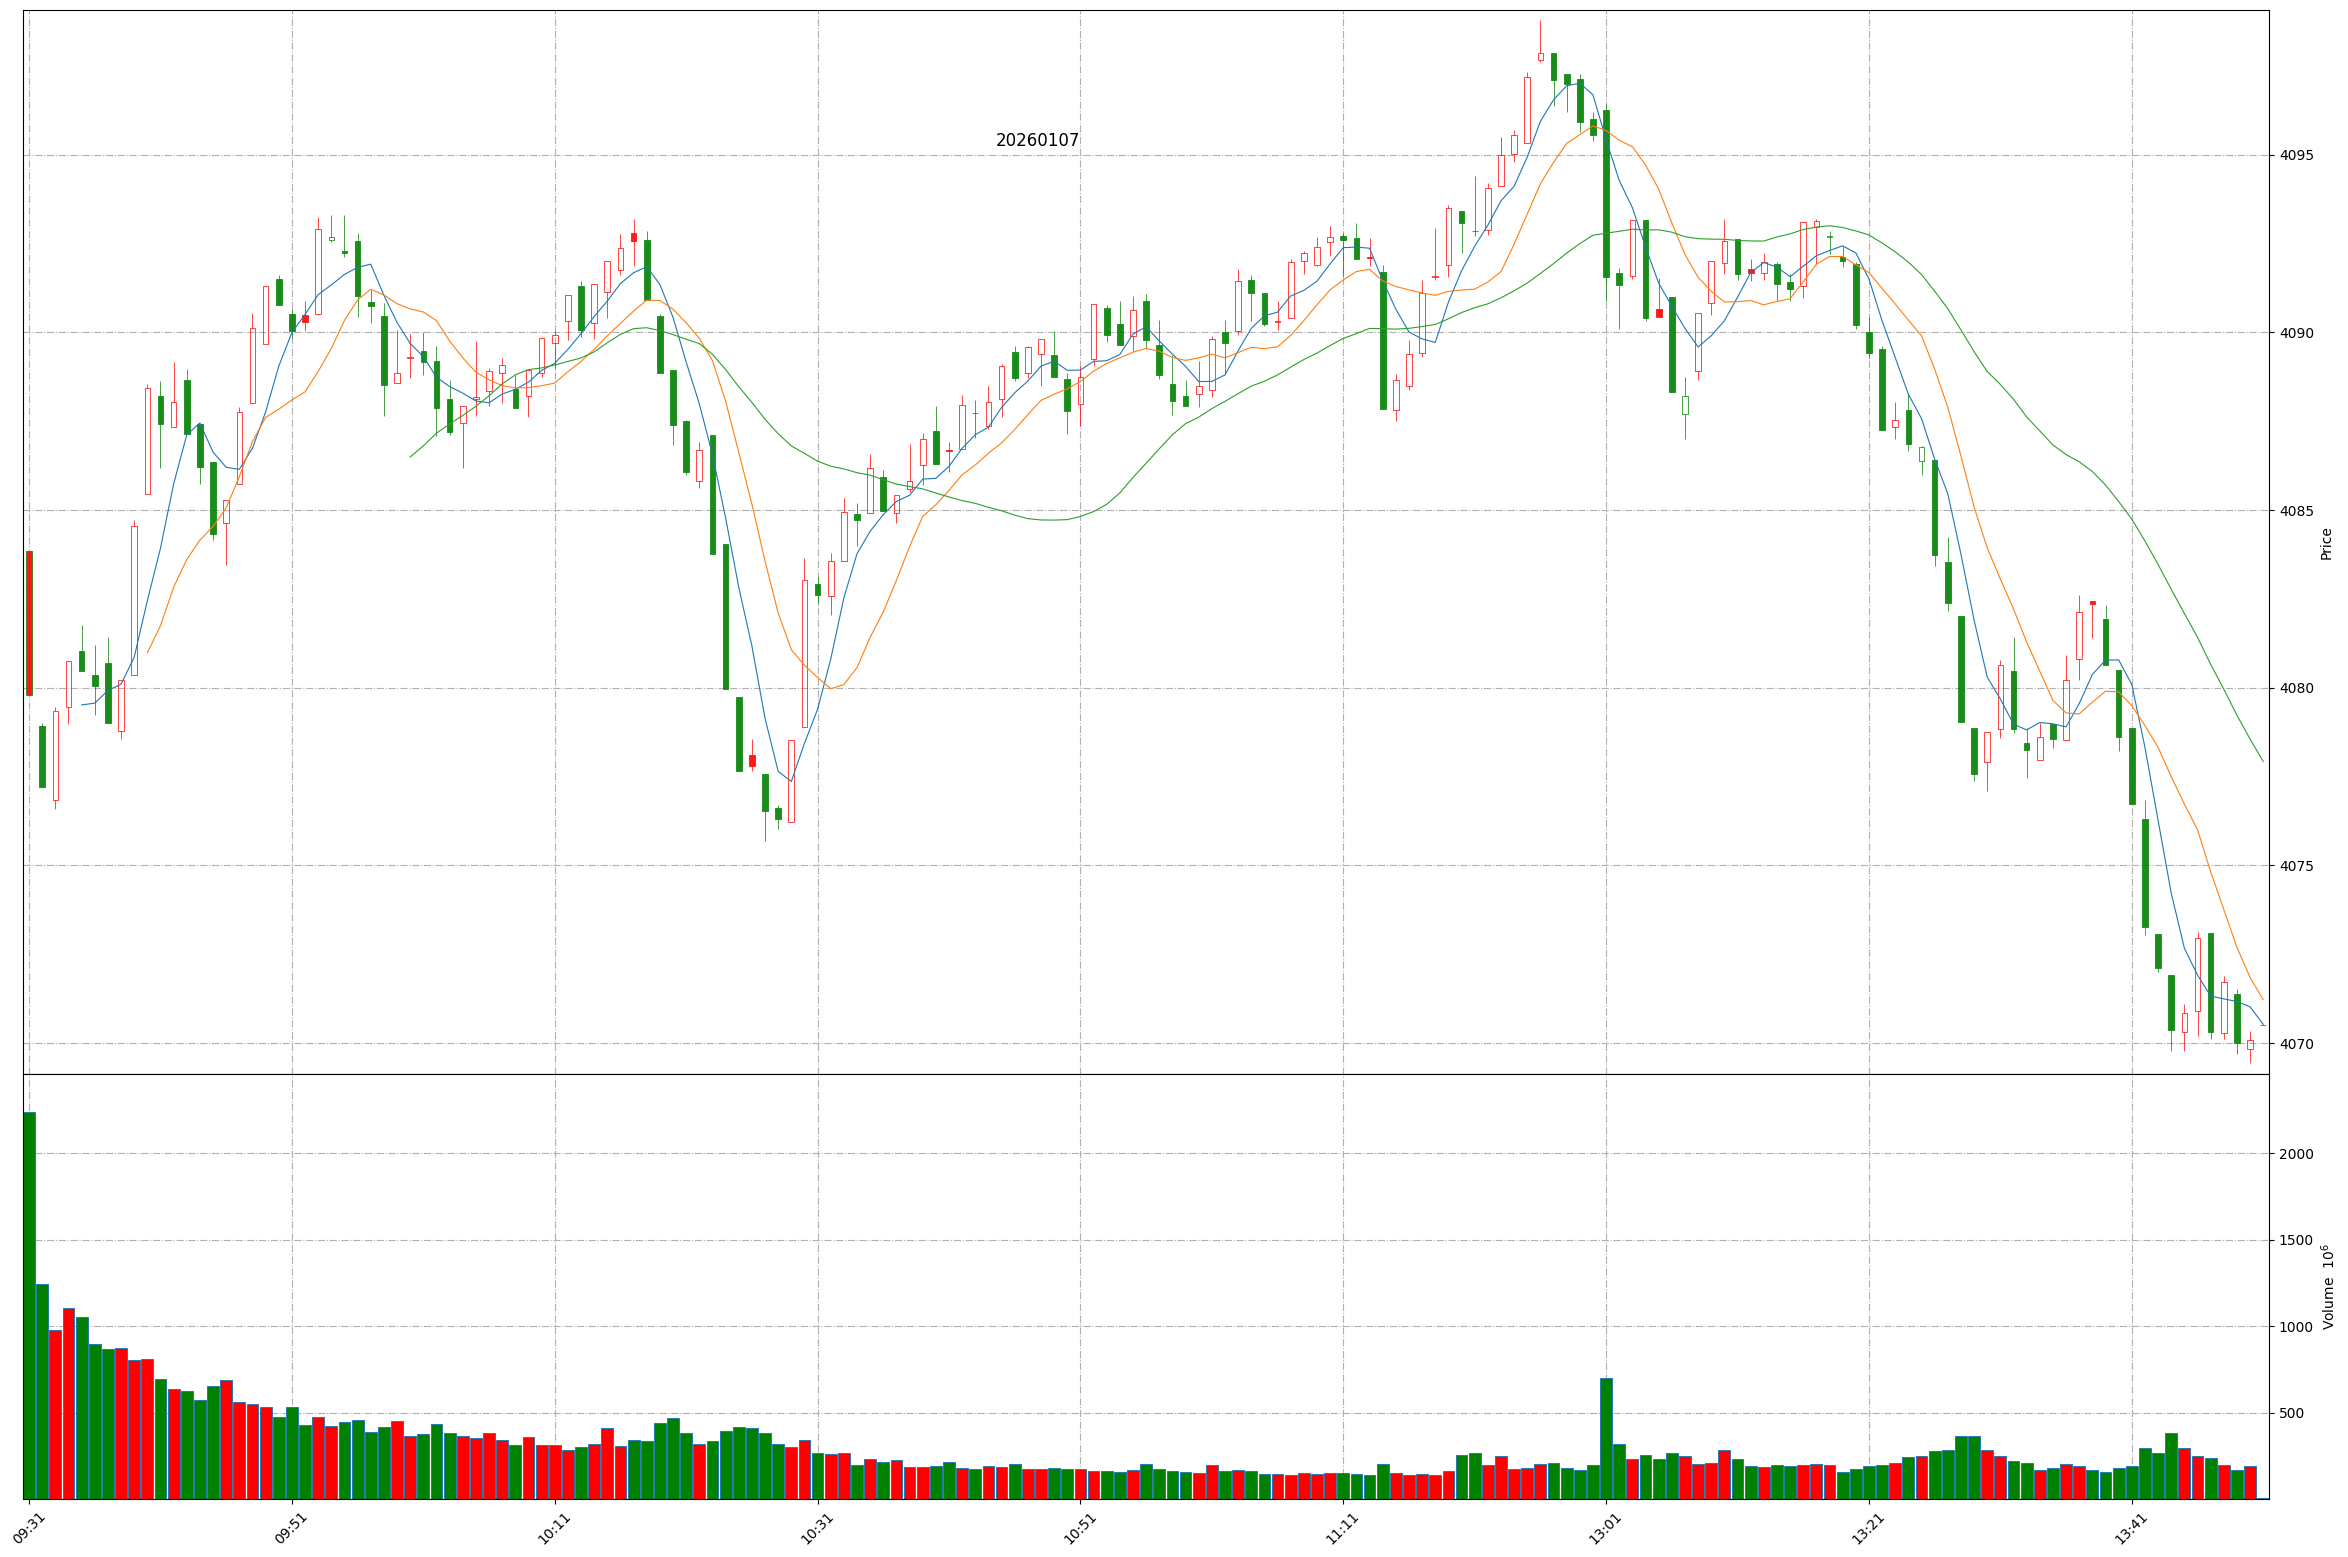
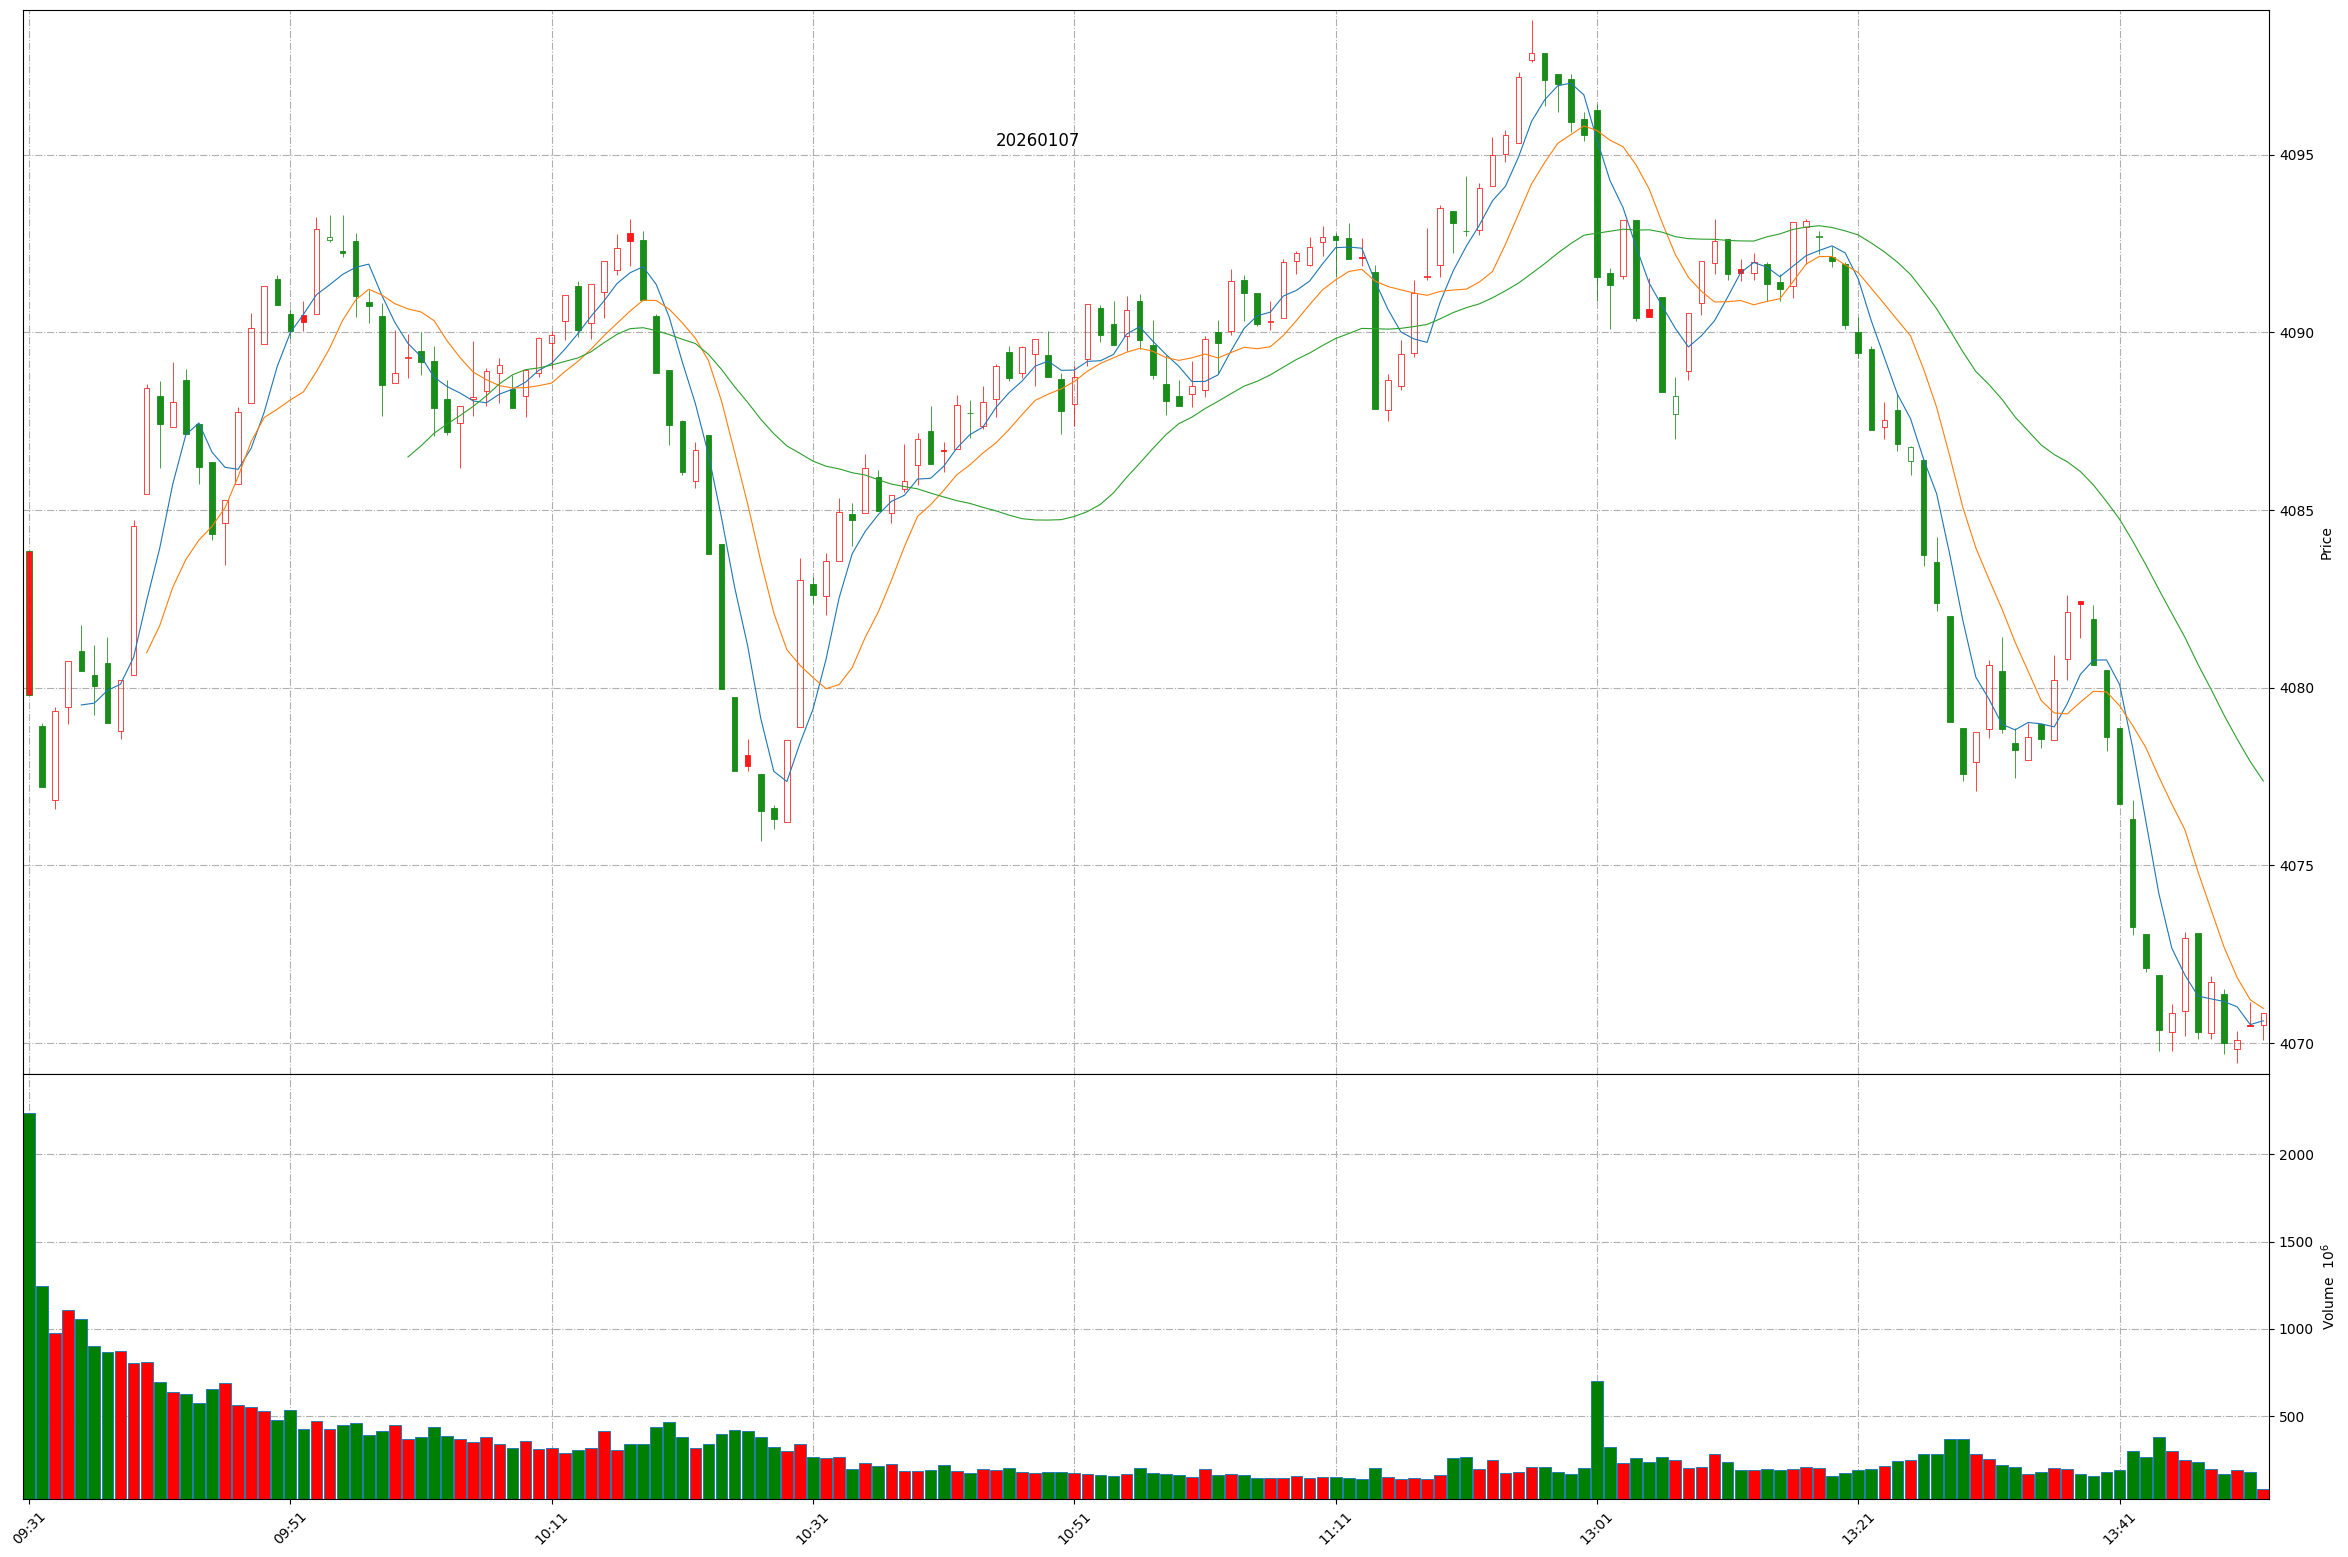
Github action update at 2026-01-07 13:51:46.

Changed region(s): [[0.0622, 0.0308, 0.9638, 0.6782], [0.0311, 0.8632, 0.9638, 0.9865], [0.0311, 0.4008, 0.0622, 0.4316]]

diff --git a/README.md b/README.md
@@ -1,11 +1,11 @@
 
 # Daily-A-share-market-quotes 每日 A 股指数（5min 更新）- 20260107
 
-### 上证指数 20260107 13:50
+### 上证指数 20260107 13:51
 ![](./fig/2026/1/20260107-sh000001.png)
 
-### 深证成指 20260107 13:50
+### 深证成指 20260107 13:51
 ![](./fig/2026/1/20260107-sz399001.png)
 
-### 北证50 20260107 13:50
+### 北证50 20260107 13:51
 ![](./fig/2026/1/20260107-bj899050.png)
